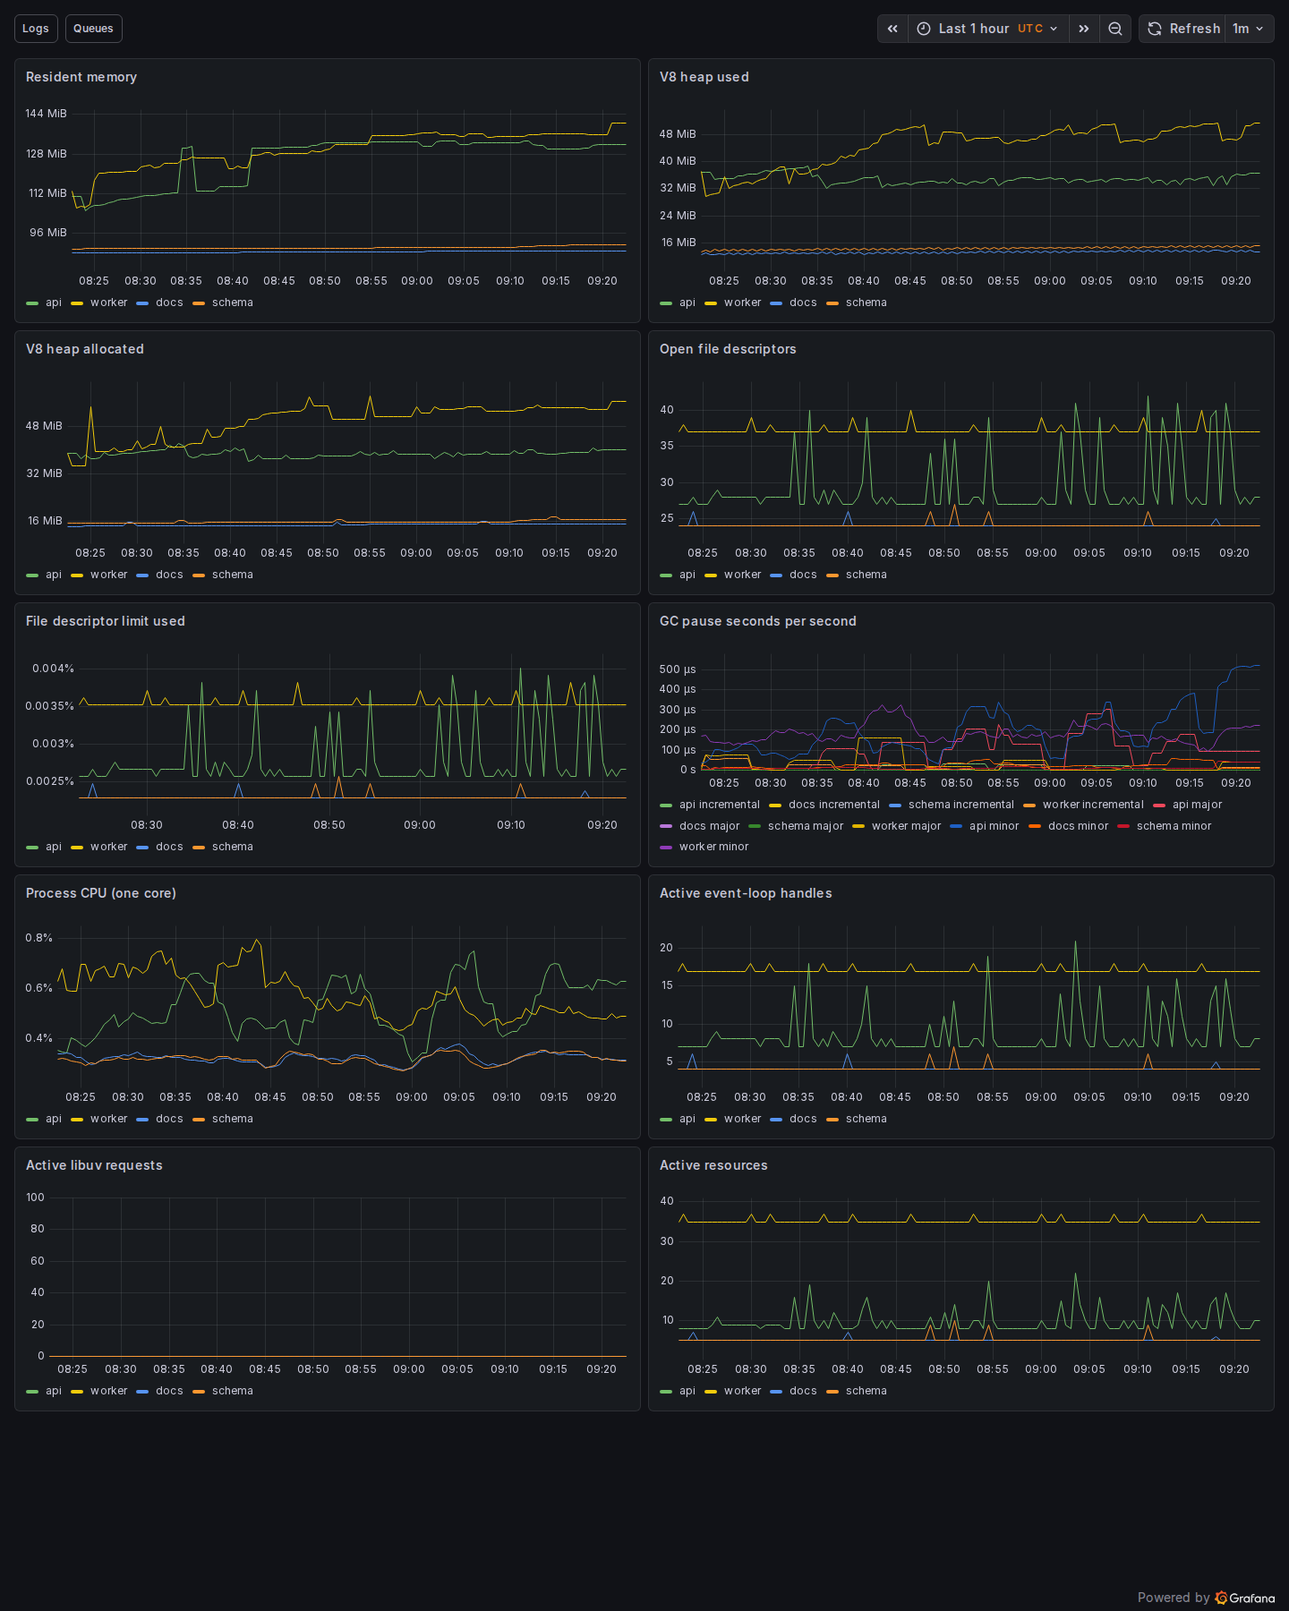
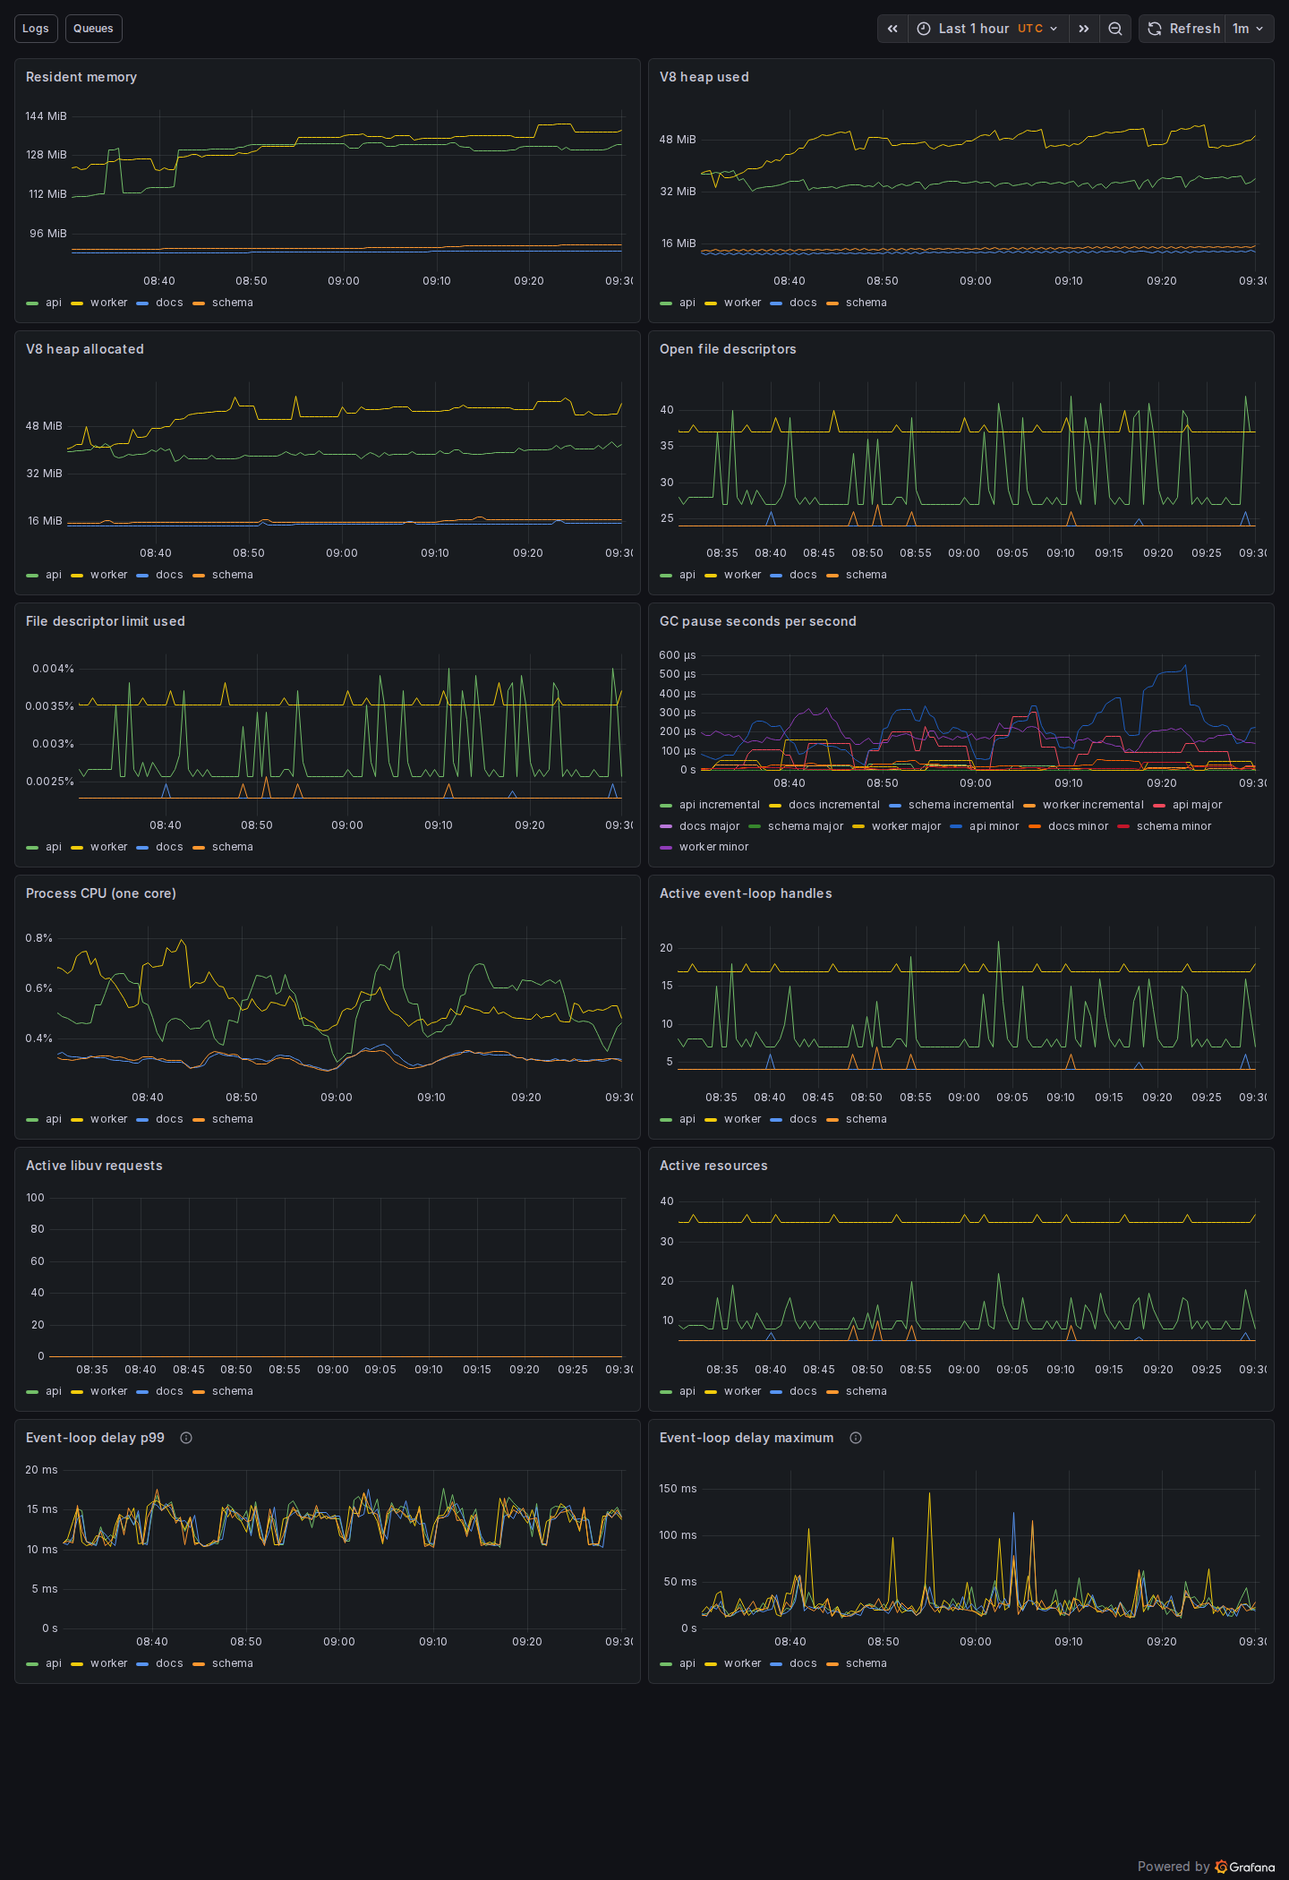
Show event-loop delay in app runtime dashboard

diff --git a/scripts/lib/check-grafana.ts b/scripts/lib/check-grafana.ts
@@ -244,7 +244,7 @@ export async function checkGrafana() {
       await page.setViewportSize({
         width: 1440,
         height: ['nd-product', 'nd-runtime'].includes(dashboard.uid)
-          ? 1800
+          ? 2100
           : 1100,
       });
       const errors: string[] = [];
@@ -291,7 +291,7 @@ export async function checkGrafana() {
         // A first canvas can paint while the other queries are still pending.
         await page
           .getByText('worker', { exact: true })
-          .nth(8)
+          .nth(10)
           .waitFor({ state: 'visible' });
         await page
           .getByText('worker minor', { exact: true })
@@ -445,6 +445,38 @@ export async function checkGrafana() {
     );
     await page.screenshot({
       path: 'docs/screenshots/grafana-runtime-work-mobile.png',
+    });
+    for (let attempt = 0; attempt < 22; attempt++) {
+      if (
+        await page
+          .getByRole('heading', { name: 'Event-loop delay p99', exact: true })
+          .count()
+      )
+        break;
+      await page.mouse.wheel(0, 500);
+      await page.waitForTimeout(300);
+    }
+    const delayPanel = page.getByRole('region', {
+      name: 'Event-loop delay p99',
+    });
+    await page
+      .getByRole('heading', { name: 'Event-loop delay p99', exact: true })
+      .scrollIntoViewIfNeeded();
+    await delayPanel
+      .getByText('worker', { exact: true })
+      .waitFor({ state: 'visible' });
+    await delayPanel.evaluate((panel) =>
+      panel.scrollIntoView({ block: 'start' }),
+    );
+    await page.waitForTimeout(1500);
+    assert.equal(
+      await page
+        .locator('[data-testid="data-testid Panel status error"]')
+        .count(),
+      0,
+    );
+    await page.screenshot({
+      path: 'docs/screenshots/grafana-runtime-delay-mobile.png',
     });
     await page.goto(`${base}/d/nd-errors?kiosk`, { waitUntil: 'networkidle' });
     await page

diff --git a/PROGRESS.md b/PROGRESS.md
@@ -1,17 +1,8 @@
 # Progress
 
-Archived: [iteration 360](docs/progress-archive/2026-11-03-iteration-360.md), [iteration 359](docs/progress-archive/2026-11-03-iteration-359.md), [iteration 357](docs/progress-archive/2026-11-03-iteration-357.md), [iteration 356](docs/progress-archive/2026-11-03-iteration-356.md), [iteration 355](docs/progress-archive/2026-11-03-iteration-355.md), [iteration 354](docs/progress-archive/2026-11-03-iteration-354.md), [iteration 353](docs/progress-archive/2026-11-03-iteration-353.md), [iteration 352](docs/progress-archive/2026-11-03-iteration-352.md), [iteration 351](docs/progress-archive/2026-11-03-iteration-351.md), [iteration 350](docs/progress-archive/2026-11-03-iteration-350.md), [iteration 349](docs/progress-archive/2026-11-03-iteration-349.md), [iteration 348](docs/progress-archive/2026-11-03-iteration-348.md), [iteration 347](docs/progress-archive/2026-11-03-iteration-347.md), [iteration 346](docs/progress-archive/2026-11-03-iteration-346.md), [iteration 345](docs/progress-archive/2026-11-03-iteration-345.md), [iteration 344](docs/progress-archive/2026-11-03-iteration-344.md), [iteration 343](docs/progress-archive/2026-11-03-iteration-343.md), [iteration 342](docs/progress-archive/2026-11-03-iteration-342.md), [iteration 341](docs/progress-archive/2026-11-03-iteration-341.md), [iteration 340](docs/progress-archive/2026-11-03-iteration-340.md), [iteration 338](docs/progress-archive/2026-11-03-iteration-338.md), [iteration 337](docs/progress-archive/2026-11-03-iteration-337.md), [iteration 336](docs/progress-archive/2026-11-03-iteration-336.md), [iteration 335](docs/progress-archive/2026-11-03-iteration-335.md), [iteration 334](docs/progress-archive/2026-11-03-iteration-334.md), [iteration 332](docs/progress-archive/2026-11-03-iteration-332.md), [iteration 331](docs/progress-archive/2026-11-03-iteration-331.md), [iteration 330](docs/progress-archive/2026-11-03-iteration-330.md), [iteration 329](docs/progress-archive/2026-11-03-iteration-329.md), [iteration 328](docs/progress-archive/2026-11-03-iteration-328.md), [iteration 327](docs/progress-archive/2026-11-03-iteration-327.md), [iteration 326](docs/progress-archive/2026-11-03-iteration-326.md), [iteration 325](docs/progress-archive/2026-11-03-iteration-325.md), [iteration 324](docs/progress-archive/2026-11-03-iteration-324.md), [iteration 321](docs/progress-archive/2026-11-03-iteration-321.md), [iteration 320](docs/progress-archive/2026-11-03-iteration-320.md), [iteration 319](docs/progress-archive/2026-11-03-iteration-319.md), [iterations 317–318](docs/progress-archive/2026-11-03-iterations-317-318.md), [iterations 315–316](docs/progress-archive/2026-11-03-iterations-315-316.md), [iterations 313–314](docs/progress-archive/2026-11-03-iterations-313-314.md), [iterations 311–312](docs/progress-archive/2026-11-03-iterations-311-312.md), [iterations 309–310](docs/progress-archive/2026-11-03-iterations-309-310.md), [iterations 307–308](docs/progress-archive/2026-11-03-iterations-307-308.md), [iterations 305–306](docs/progress-archive/2026-11-03-iterations-305-306.md), [iterations 303–304](docs/progress-archive/2026-11-03-iterations-303-304.md), [iteration 302](docs/progress-archive/2026-11-03-iteration-302.md), [iteration 301](docs/progress-archive/2026-11-03-iteration-301.md), [iteration 300](docs/progress-archive/2026-11-03-iteration-300.md), [iteration 299](docs/progress-archive/2026-11-03-iteration-299.md), [iteration 298](docs/progress-archive/2026-11-03-iteration-298.md), [iteration 297](docs/progress-archive/2026-11-03-iteration-297.md), [iteration 296](docs/progress-archive/2026-11-03-iteration-296.md), [iteration 295](docs/progress-archive/2026-11-03-iteration-295.md), [iteration 294](docs/progress-archive/2026-11-03-iteration-294.md), [iteration 293](docs/progress-archive/2026-11-03-iteration-293.md), [iteration 292](docs/progress-archive/2026-11-03-iteration-292.md), [iteration 291](docs/progress-archive/2026-11-03-iteration-291.md), [iteration 290](docs/progress-archive/2026-11-03-iteration-290.md), [iteration 288](docs/progress-archive/2026-11-03-iteration-288.md), [iteration 285](docs/progress-archive/2026-11-03-iteration-285.md), [286](docs/progress-archive/2026-11-03-iteration-286.md).
+Archived: [iteration 361](docs/progress-archive/2026-11-03-iteration-361.md), [iteration 360](docs/progress-archive/2026-11-03-iteration-360.md), [iteration 359](docs/progress-archive/2026-11-03-iteration-359.md), [iteration 357](docs/progress-archive/2026-11-03-iteration-357.md), [iteration 356](docs/progress-archive/2026-11-03-iteration-356.md), [iteration 355](docs/progress-archive/2026-11-03-iteration-355.md), [iteration 354](docs/progress-archive/2026-11-03-iteration-354.md), [iteration 353](docs/progress-archive/2026-11-03-iteration-353.md), [iteration 352](docs/progress-archive/2026-11-03-iteration-352.md), [iteration 351](docs/progress-archive/2026-11-03-iteration-351.md), [iteration 350](docs/progress-archive/2026-11-03-iteration-350.md), [iteration 349](docs/progress-archive/2026-11-03-iteration-349.md), [iteration 348](docs/progress-archive/2026-11-03-iteration-348.md), [iteration 347](docs/progress-archive/2026-11-03-iteration-347.md), [iteration 346](docs/progress-archive/2026-11-03-iteration-346.md), [iteration 345](docs/progress-archive/2026-11-03-iteration-345.md), [iteration 344](docs/progress-archive/2026-11-03-iteration-344.md), [iteration 343](docs/progress-archive/2026-11-03-iteration-343.md), [iteration 342](docs/progress-archive/2026-11-03-iteration-342.md), [iteration 341](docs/progress-archive/2026-11-03-iteration-341.md), [iteration 340](docs/progress-archive/2026-11-03-iteration-340.md), [iteration 338](docs/progress-archive/2026-11-03-iteration-338.md), [iteration 337](docs/progress-archive/2026-11-03-iteration-337.md), [iteration 336](docs/progress-archive/2026-11-03-iteration-336.md), [iteration 335](docs/progress-archive/2026-11-03-iteration-335.md), [iteration 334](docs/progress-archive/2026-11-03-iteration-334.md), [iteration 332](docs/progress-archive/2026-11-03-iteration-332.md), [iteration 331](docs/progress-archive/2026-11-03-iteration-331.md), [iteration 330](docs/progress-archive/2026-11-03-iteration-330.md), [iteration 329](docs/progress-archive/2026-11-03-iteration-329.md), [iteration 328](docs/progress-archive/2026-11-03-iteration-328.md), [iteration 327](docs/progress-archive/2026-11-03-iteration-327.md), [iteration 326](docs/progress-archive/2026-11-03-iteration-326.md), [iteration 325](docs/progress-archive/2026-11-03-iteration-325.md), [iteration 324](docs/progress-archive/2026-11-03-iteration-324.md), [iteration 321](docs/progress-archive/2026-11-03-iteration-321.md), [iteration 320](docs/progress-archive/2026-11-03-iteration-320.md), [iteration 319](docs/progress-archive/2026-11-03-iteration-319.md), [iterations 317–318](docs/progress-archive/2026-11-03-iterations-317-318.md), [iterations 315–316](docs/progress-archive/2026-11-03-iterations-315-316.md), [iterations 313–314](docs/progress-archive/2026-11-03-iterations-313-314.md), [iterations 311–312](docs/progress-archive/2026-11-03-iterations-311-312.md), [iterations 309–310](docs/progress-archive/2026-11-03-iterations-309-310.md), [iterations 307–308](docs/progress-archive/2026-11-03-iterations-307-308.md), [iterations 305–306](docs/progress-archive/2026-11-03-iterations-305-306.md), [iterations 303–304](docs/progress-archive/2026-11-03-iterations-303-304.md), [iteration 302](docs/progress-archive/2026-11-03-iteration-302.md), [iteration 301](docs/progress-archive/2026-11-03-iteration-301.md), [iteration 300](docs/progress-archive/2026-11-03-iteration-300.md), [iteration 299](docs/progress-archive/2026-11-03-iteration-299.md), [iteration 298](docs/progress-archive/2026-11-03-iteration-298.md), [iteration 297](docs/progress-archive/2026-11-03-iteration-297.md), [iteration 296](docs/progress-archive/2026-11-03-iteration-296.md), [iteration 295](docs/progress-archive/2026-11-03-iteration-295.md), [iteration 294](docs/progress-archive/2026-11-03-iteration-294.md), [iteration 293](docs/progress-archive/2026-11-03-iteration-293.md), [iteration 292](docs/progress-archive/2026-11-03-iteration-292.md), [iteration 291](docs/progress-archive/2026-11-03-iteration-291.md), [iteration 290](docs/progress-archive/2026-11-03-iteration-290.md), [iteration 288](docs/progress-archive/2026-11-03-iteration-288.md), [iteration 285](docs/progress-archive/2026-11-03-iteration-285.md), [286](docs/progress-archive/2026-11-03-iteration-286.md).
 
 Earlier entries: [iterations 269–270](docs/progress-archive/2026-11-03-iterations-269-270.md), [271–272](docs/progress-archive/2026-11-03-iterations-271-272.md), [273–274](docs/progress-archive/2026-11-03-iterations-273-274.md), [275–276](docs/progress-archive/2026-11-03-iterations-275-276.md), [277–278](docs/progress-archive/2026-11-03-iterations-277-278.md), [279–280](docs/progress-archive/2026-11-03-iterations-279-280.md), [282](docs/progress-archive/2026-11-03-iteration-282.md), [283](docs/progress-archive/2026-11-03-iteration-283.md), [284](docs/progress-archive/2026-11-03-iteration-284.md).
-
-## 2026-11-03: iteration 361 — worker job attempt metrics
-
-- Started clean on main; no leftover work. Four app units/health green, 32 sources without current errors, no failed digest jobs. Two retained ingestion failures have recovered sources; Nov 3 scheduled evidence remains pending.
-- Continued O5 with worker job duration/count histograms for all four processors, split by completed/failed attempt. Retries count separately; allowlisted queue/job labels exclude IDs, payloads and errors. Samples reset on restart and exclude attempts killed before settling.
-- Added offline result/error identity, retry counting and label privacy coverage; read-only observability check now requires a scraped scheduled heartbeat. Updated handbook/plan/TASKS; archived iteration 349. Provider and queue-state/schedule metrics remain open. No UI/diagram change.
-- Verification: focused job/logging tests 6/6; `pnpm format`, `pnpm lint:fix`, `pnpm check` (230 unit/172 integration), `pnpm build`, handbook 09 and `git diff --check` passed. `check-observability.ts --verify-o4` passed with six healthy targets and live heartbeat/ingestion samples.
-- Restarted API/worker for changed shared code; docs/schema/DB/Redis untouched. Health green; retained real edition four topics/20 stories/10 posts. Observability daemons sampled ~217 MiB RAM/~0.7% startup-average CPU combined; metrics ~27 MiB allocated.
-- No paid calls, Reddit requests or production content/spending-setting changes. Next: scheduled evidence/acks first; otherwise O5 provider and queue-state/schedule metrics. Production activation stays gated.
 
 ## 2026-11-03: iteration 362 — shared HTTP attempt metrics
 
@@ -112,4 +103,13 @@ Earlier entries: [iterations 269–270](docs/progress-archive/2026-11-03-iterati
 - Enlarged desktop verification viewport and waited for every runtime legend; added mobile CPU capture. Inspected desktop/mobile screenshots and discarded unrelated regenerated captures.
 - Verification: `pnpm format`, `pnpm lint:fix`, detached `pnpm check` (232 unit/172 integration, exit 0), `pnpm build`, handbook 09 and `git diff --check` passed. `check-observability.ts --verify-grafana --verify-o4`: 49 valid queries/46 populated, six healthy scrape targets.
 - Grafana hot-reloaded; no service code/config restart needed. Health and retained real four-topic edition (20 stories/10 posts) verified. No paid calls, Reddit requests or production content/spending-setting changes.
+- Next: scheduled evidence/acks first; otherwise remaining O6 Redis/Agent and Product caps/timing. Production activation stays gated.
+
+## 2026-11-03: iteration 373 — event-loop delay dashboard
+
+- Started clean on main; no leftover work. Four app services/health green, 32 sources without current errors and no failed digest jobs. Two retained ingestion failures have recovered sources; Nov 3 15:00 UTC evidence remains pending.
+- Added event-loop p99 and maximum delay to App runtime for all four Node services, using existing scrapes. Panel descriptions distinguish per-scrape samples, the approximately 10 ms sampling floor and HTTP latency. No collector or production behavior changes. Updated handbook/plan/TASKS; archived iteration 361.
+- Verification: `pnpm format`, `pnpm lint:fix`, detached `pnpm check` (232 unit/172 integration, exit 0), `pnpm build`, handbook 09 and `git diff --check` passed. `check-observability.ts --verify-grafana --verify-o4`: 51 valid queries/48 populated, six healthy targets.
+- Desktop/mobile screenshots inspected; initial mobile capture clipped the graph, corrected by aligning the delay panel to the viewport. Discarded unrelated regenerated captures.
+- Grafana hot-reloaded; no app/DB/Redis code/config changes or restart needed. Retained real scheduled edition verified: four topics, 20 stories, 10 posts. No paid calls or Reddit requests; content/spending settings unchanged.
 - Next: scheduled evidence/acks first; otherwise remaining O6 Redis/Agent and Product caps/timing. Production activation stays gated.

diff --git a/TASKS.md b/TASKS.md
@@ -70,4 +70,4 @@ M0–M2; M3/M6/M7 foundations implemented.
 - [ ] STEERING 2a (lower priority): finish repository/HTTP characterization before ORM. Isolated DB/Redis, migrations, HTTP/worker and synthetic-AI goldens implemented (183–270); gaps: [database verification](docs/DATABASE-VERIFICATION.md). No live DB; finish 2a before ORM. Recorded-response golden open.
 - [ ] STEERING 2b (only after 2a is green): record Drizzle decision/schema parity, back up live DB, gradually replace raw SQL behind ports and enforce boundaries.
 
-- [ ] STEERING 24 (background): [observability plan](docs/observability-plan.md), only while product work is blocked. O1–O5 verified (354–364): private runtime, HTTP, external-call, job-attempt and queue-state/schedule metrics scraped. O6 advanced (365–372): private Grafana Host/Services/HTTP/Jobs, Errors/logs and read-only Product/Database dashboards, source coverage, edition history, attributed AI costs/holds and app runtime memory/heap/descriptors/GC/CPU/active work; Redis/Agent, Database top queries (O7) and full Product cap/timing coverage remain. Scheduled evidence/acks take priority; preserve caps and run protection.
+- [ ] STEERING 24 (background): [observability plan](docs/observability-plan.md), only while product work is blocked. O1–O5 verified (354–364): private runtime, HTTP, external-call, job-attempt and queue-state/schedule metrics scraped. O6 advanced (365–373): private Grafana Host/Services/HTTP/Jobs, Errors/logs and read-only Product/Database dashboards, source coverage, edition history, attributed AI costs/holds and app runtime memory/heap/descriptors/GC/CPU/active work/event-loop delay; Redis/Agent, Database top queries (O7) and full Product cap/timing coverage remain. Scheduled evidence/acks take priority; preserve caps and run protection.

diff --git a/docs/progress-archive/2026-11-03-iteration-361.md b/docs/progress-archive/2026-11-03-iteration-361.md
@@ -1,0 +1,8 @@
+## 2026-11-03: iteration 361 — worker job attempt metrics
+
+- Started clean on main; no leftover work. Four app units/health green, 32 sources without current errors, no failed digest jobs. Two retained ingestion failures have recovered sources; Nov 3 scheduled evidence remains pending.
+- Continued O5 with worker job duration/count histograms for all four processors, split by completed/failed attempt. Retries count separately; allowlisted queue/job labels exclude IDs, payloads and errors. Samples reset on restart and exclude attempts killed before settling.
+- Added offline result/error identity, retry counting and label privacy coverage; read-only observability check now requires a scraped scheduled heartbeat. Updated handbook/plan/TASKS; archived iteration 349. Provider and queue-state/schedule metrics remain open. No UI/diagram change.
+- Verification: focused job/logging tests 6/6; `pnpm format`, `pnpm lint:fix`, `pnpm check` (230 unit/172 integration), `pnpm build`, handbook 09 and `git diff --check` passed. `check-observability.ts --verify-o4` passed with six healthy targets and live heartbeat/ingestion samples.
+- Restarted API/worker for changed shared code; docs/schema/DB/Redis untouched. Health green; retained real edition four topics/20 stories/10 posts. Observability daemons sampled ~217 MiB RAM/~0.7% startup-average CPU combined; metrics ~27 MiB allocated.
+- No paid calls, Reddit requests or production content/spending-setting changes. Next: scheduled evidence/acks first; otherwise O5 provider and queue-state/schedule metrics. Production activation stays gated.

diff --git a/docs/handbook/01-app/09-observability.md b/docs/handbook/01-app/09-observability.md
@@ -232,7 +232,10 @@ Open [/grafana/](/grafana/) and choose **Dashboards → News Digest** for Host,
 Services, App runtime, HTTP, Jobs, Errors and logs, Product and Database. The operational dashboards use the local metrics store; Host shows CPU,
 memory, disk and network, Services shows unit and Node health, App runtime shows
 API, worker, docs and schema resident memory, used/allocated V8 heap, open file descriptors and
-GC pause time per second, CPU use and active handles, libuv requests and resources.
+GC pause time per second, CPU use, active handles, libuv requests and resources,
+and event-loop p99/maximum delay. Delay summarizes samples since the previous
+scrape, with an approximately 10 ms sampling floor even when idle. It is not
+HTTP latency or a percentile over the selected dashboard range.
 CPU is a percentage of one core and can exceed 100% across threads. Handles
 include sockets and servers; libuv requests are pending native work, not HTTP
 requests. Resource counts include timers and other asynchronous resources. Allocated heap is not a hard limit; descriptors are

diff --git a/docs/observability-plan.md b/docs/observability-plan.md
@@ -197,6 +197,7 @@ only when its check passes.
     logs, Product, Agent.
   - **Done when:** every dashboard renders with no panel errors (screenshot
     check).
+  - Iteration 373: App runtime adds event-loop p99 and maximum delay for all four Node services, using existing scrapes. Panels explain the per-scrape window and approximately 10 ms sampling floor; desktop/mobile verification covers delay. No app changes.
 - [ ] **O7 Database and Redis.**
   - **Scope:** postgres_exporter, `pg_stat_statements`, slow-query log and
     redis_exporter. The Postgres restart is scheduled at least 2 h away from
